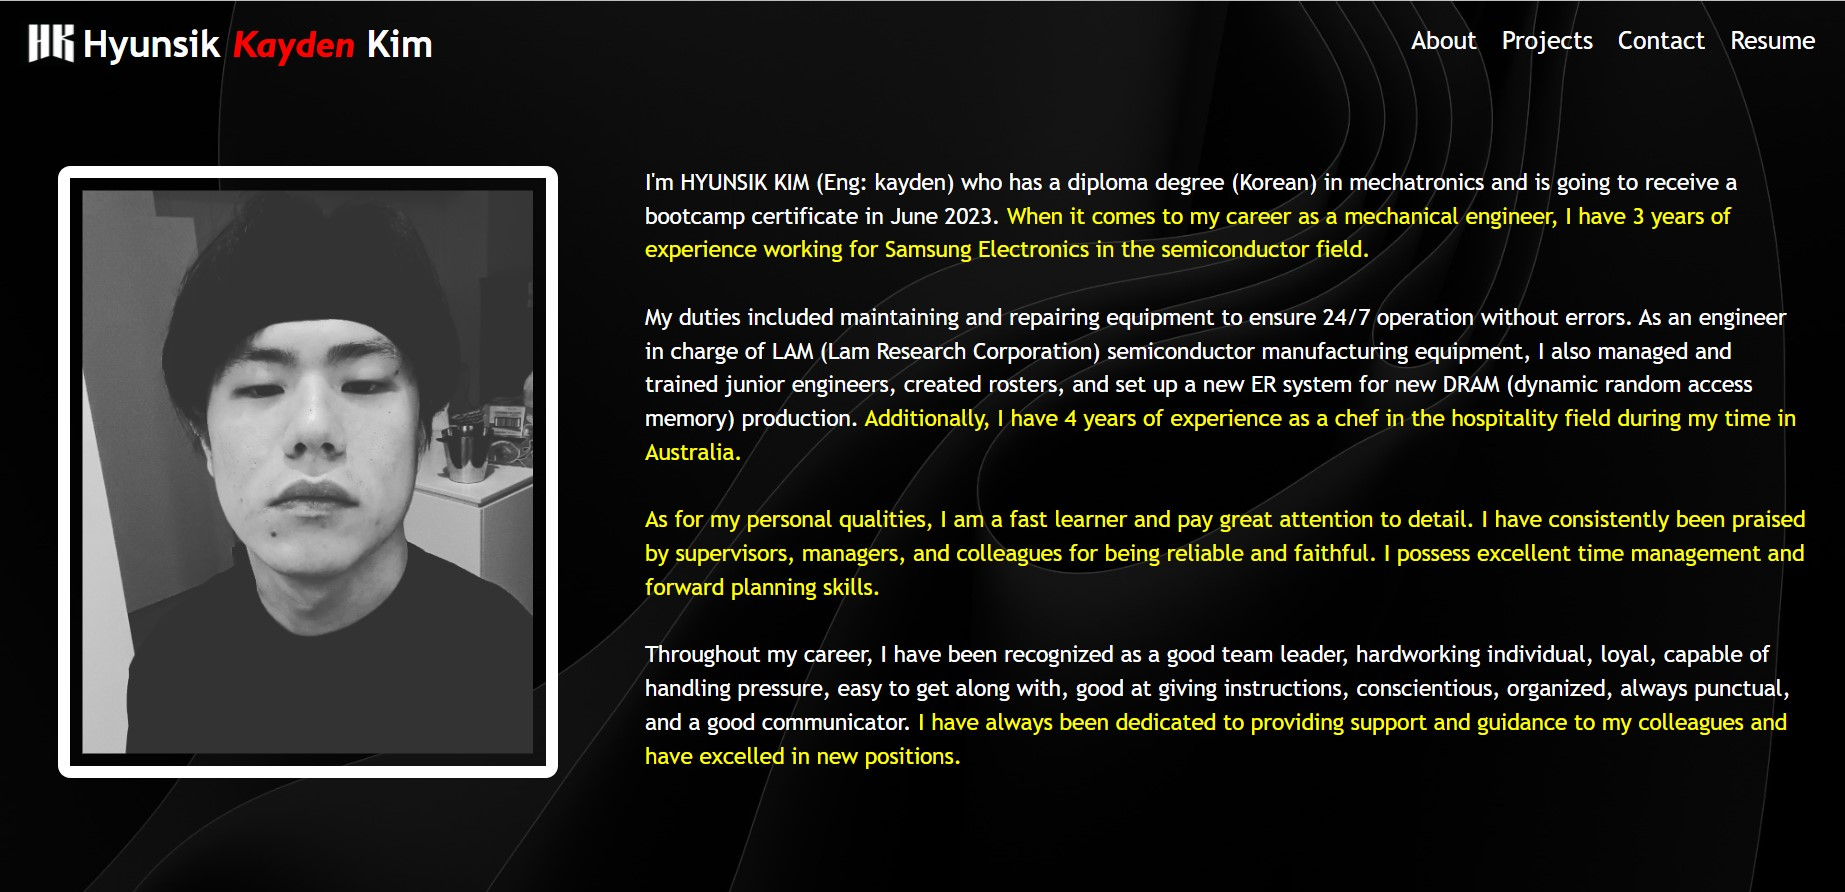
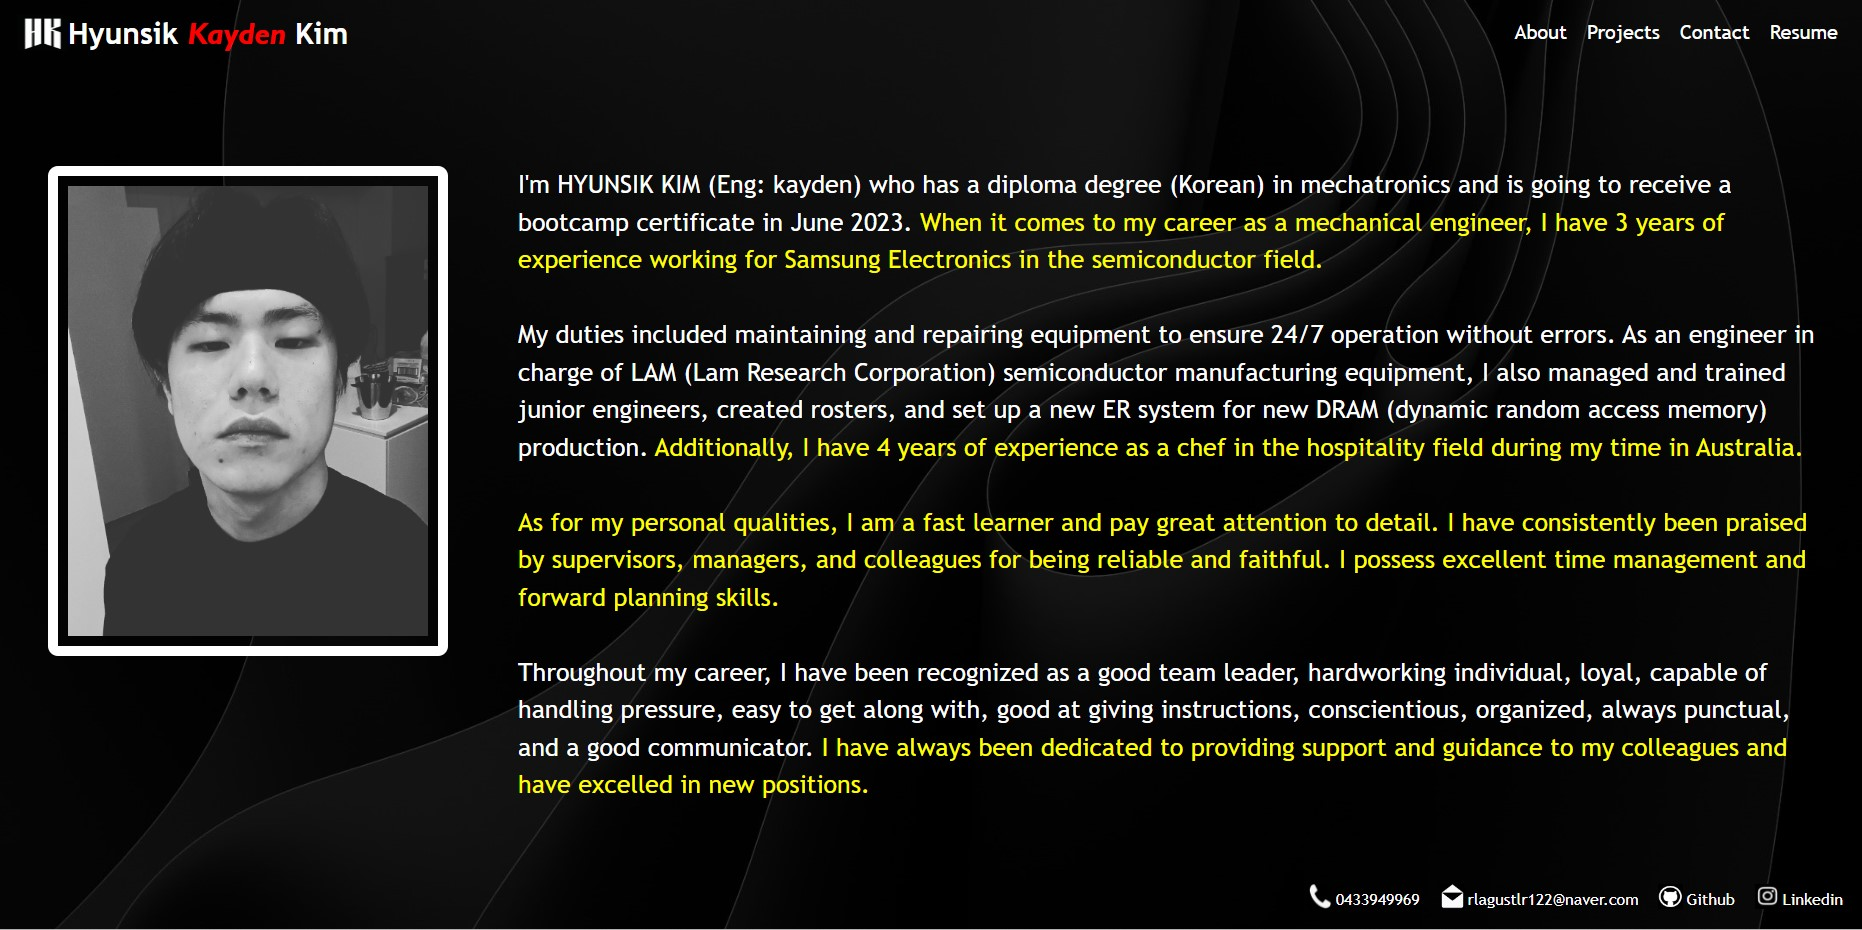
edited readme and implement valid email

diff --git a/src/pages/Contact.js b/src/pages/Contact.js
@@ -1,5 +1,5 @@
 import React, { useState } from "react";
-//import { validateEmail } from "../utils/helpers";
+import { validateEmail } from "../utils/helpers";
 import errorIcon from "../components/assets//error.png";
 import sendIcon from "../components/assets/send.png";
 import Footer from "../components/Footer";
@@ -42,11 +42,11 @@ export default function Contact() {
       return;
     }
     // check to see if the email is not valid
-    //if (!validateEmail(email)) {
-    //  setMessageSent("");
-    //  setErrorMessage("Email is invalid.");
-    //  return;
-    //}
+    if (!validateEmail(email)) {
+      setMessageSent("");
+      setErrorMessage("Email is invalid.");
+      return;
+    }
 
     // If everything is good, clear out the input after a successful sending.
     setName("");
@@ -122,7 +122,7 @@ export default function Contact() {
               <p className="error-text">
                 <img
                   alt="alert"
-                  style={{ display: "inline" }}
+                  style={{ display: "inline",  width:'100px', marginTop: '50px' }}
                   src={errorIcon}
                   className="error-icon"
                 />
@@ -135,13 +135,13 @@ export default function Contact() {
           {messageSent && (
             <div>
               <p className="send-text">
-                {messageSent}{" "}
                 <img
                   alt="send"
-                  style={{ display: "inline" }}
+                  style={{ display: "inline",  width:'100px', marginTop: '50px' }}
                   src={sendIcon}
                   className="send-icon"
                 />
+                {messageSent}{" "}
               </p>
             </div>
           )}

diff --git a/src/pages/About.js b/src/pages/About.js
@@ -11,6 +11,7 @@ const styles = {
 
 export default function About() {
   return (
+    <div>
     <div id='about'>
       <img id='aboutimg' src={logo}></img>
       <div>
@@ -29,6 +30,8 @@ export default function About() {
           Throughout my career, I have been recognized as a good team leader, hardworking individual, loyal, capable of handling pressure, easy to get along with, good at giving instructions, conscientious, organized, always punctual, and a good communicator.<span style ={styles.paragraph}> I have always been dedicated to providing support and guidance to my colleagues and have excelled in new positions.</span>
         </p>
       </div>
+      </div>
+      <Footer/>
     </div>
     
   );

diff --git a/src/pages/Work.js b/src/pages/Work.js
@@ -1,5 +1,6 @@
 import React from "react";
 import Project from "../components/Project";
+import Footer from '../components/Footer';
 // import images
 import pic1 from '../components/assets/jetty.jpg';
 import pic2 from '../components/assets/person.jpg';
@@ -94,8 +95,11 @@ export default function Portfolio() {
   ));
 
   return (
+    <div>
     <div  id="work"  className="container">
       <div className="row project">{projectItem}</div>
+    </div>
+    <Footer/>
     </div>
   );
 }

diff --git a/src/styles/About.css b/src/styles/About.css
@@ -11,6 +11,7 @@
 #about {   
     display:grid;
     grid-template-columns: 500px 1fr;
+    margin-bottom: 80px;
 }
 
 #about p { 
@@ -22,7 +23,7 @@
     color: white;
 }
 
-@media screen and (min-width:1520px) {
+@media screen and (min-width:1500px) {
 
     #about p {
         font-size: 25px ;

diff --git a/src/utils/helpers.js b/src/utils/helpers.js
@@ -1,0 +1,5 @@
+export function validateEmail(email) {
+  var re =
+    /^(([^<>()[\]\\.,;:\s@"]+(\.[^<>()[\]\\.,;:\s@"]+)*)|(".+"))@((\[[0-9]{1,3}\.[0-9]{1,3}\.[0-9]{1,3}\.[0-9]{1,3}\])|(([a-zA-Z\-0-9]+\.)+[a-zA-Z]{2,}))$/;
+  return re.test(String(email).toLowerCase());
+}

diff --git a/src/styles/Components.css b/src/styles/Components.css
@@ -49,7 +49,7 @@ footer img{
 }
 
 footer {
-  margin-top: 70px;
+  margin-top: 0px;
   display: flex;
   justify-content: flex-end;
   margin-right: 20px;

diff --git a/README.md b/README.md
@@ -66,11 +66,12 @@ npm run deploy
 
 #### Portfolio Screenshot
 
-![Screenshot](./src/assets/images/home.png)
-![Screenshot](./src/assets/images/about.png)
-![Screenshot](./src/assets/images/projects.png)
-![Screenshot](./src/assets/images/contact.png)
-![Screenshot](./src/assets/images/resume.png)
+![Screenshot](../React-Portfolio/src/components/assets/home.jpg)
+![Screenshot](../React-Portfolio/src/components/assets/about.jpg)
+![Screenshot](../React-Portfolio/src/components/assets/project-top.jpg)
+![Screenshot](../React-Portfolio/src/components/assets/project-bottom.jpg)
+![Screenshot](../React-Portfolio/src/components/assets/contact.jpg)
+![Screenshot](../React-Portfolio/src/components/assets/resumepage.jpg)
 
 ## License
 
